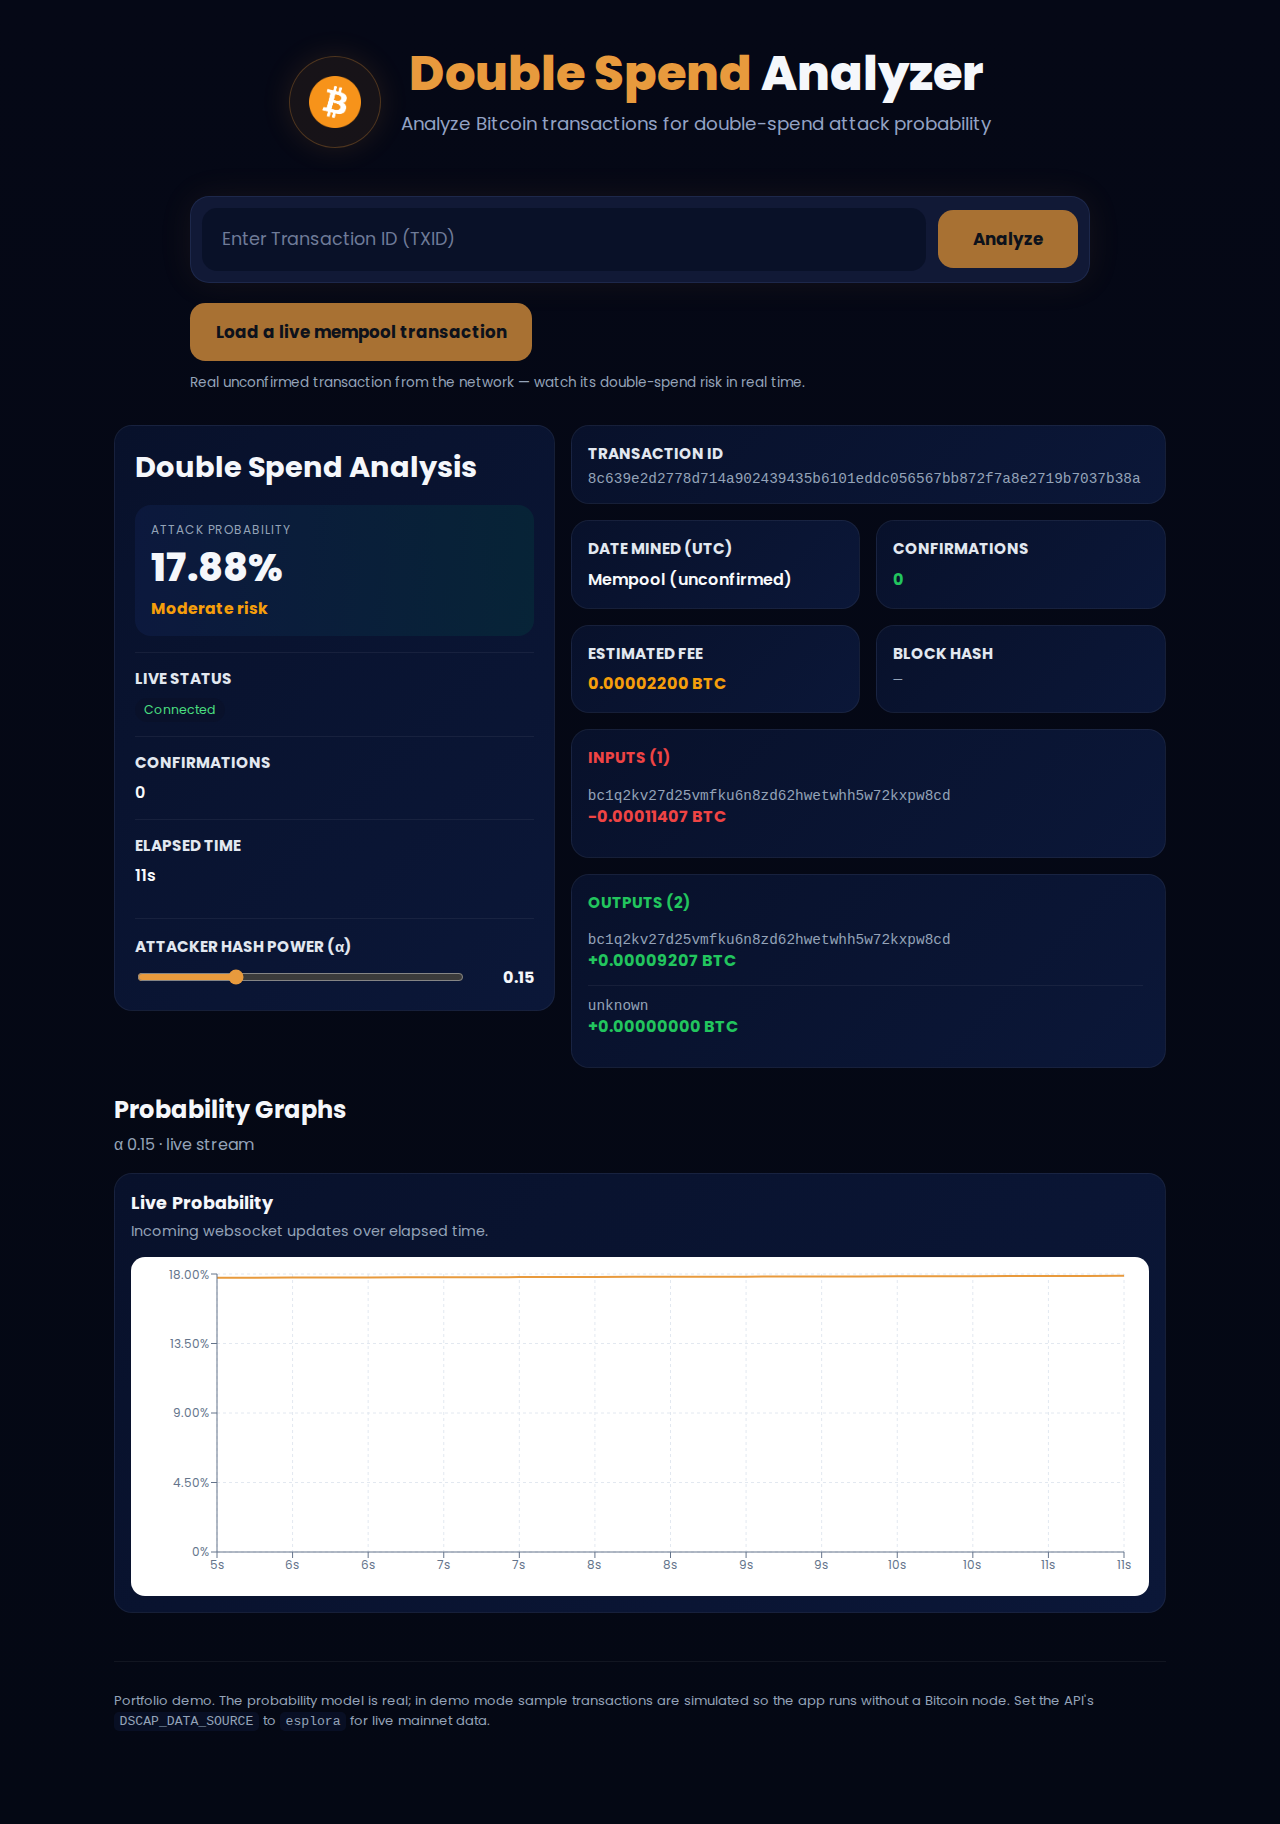
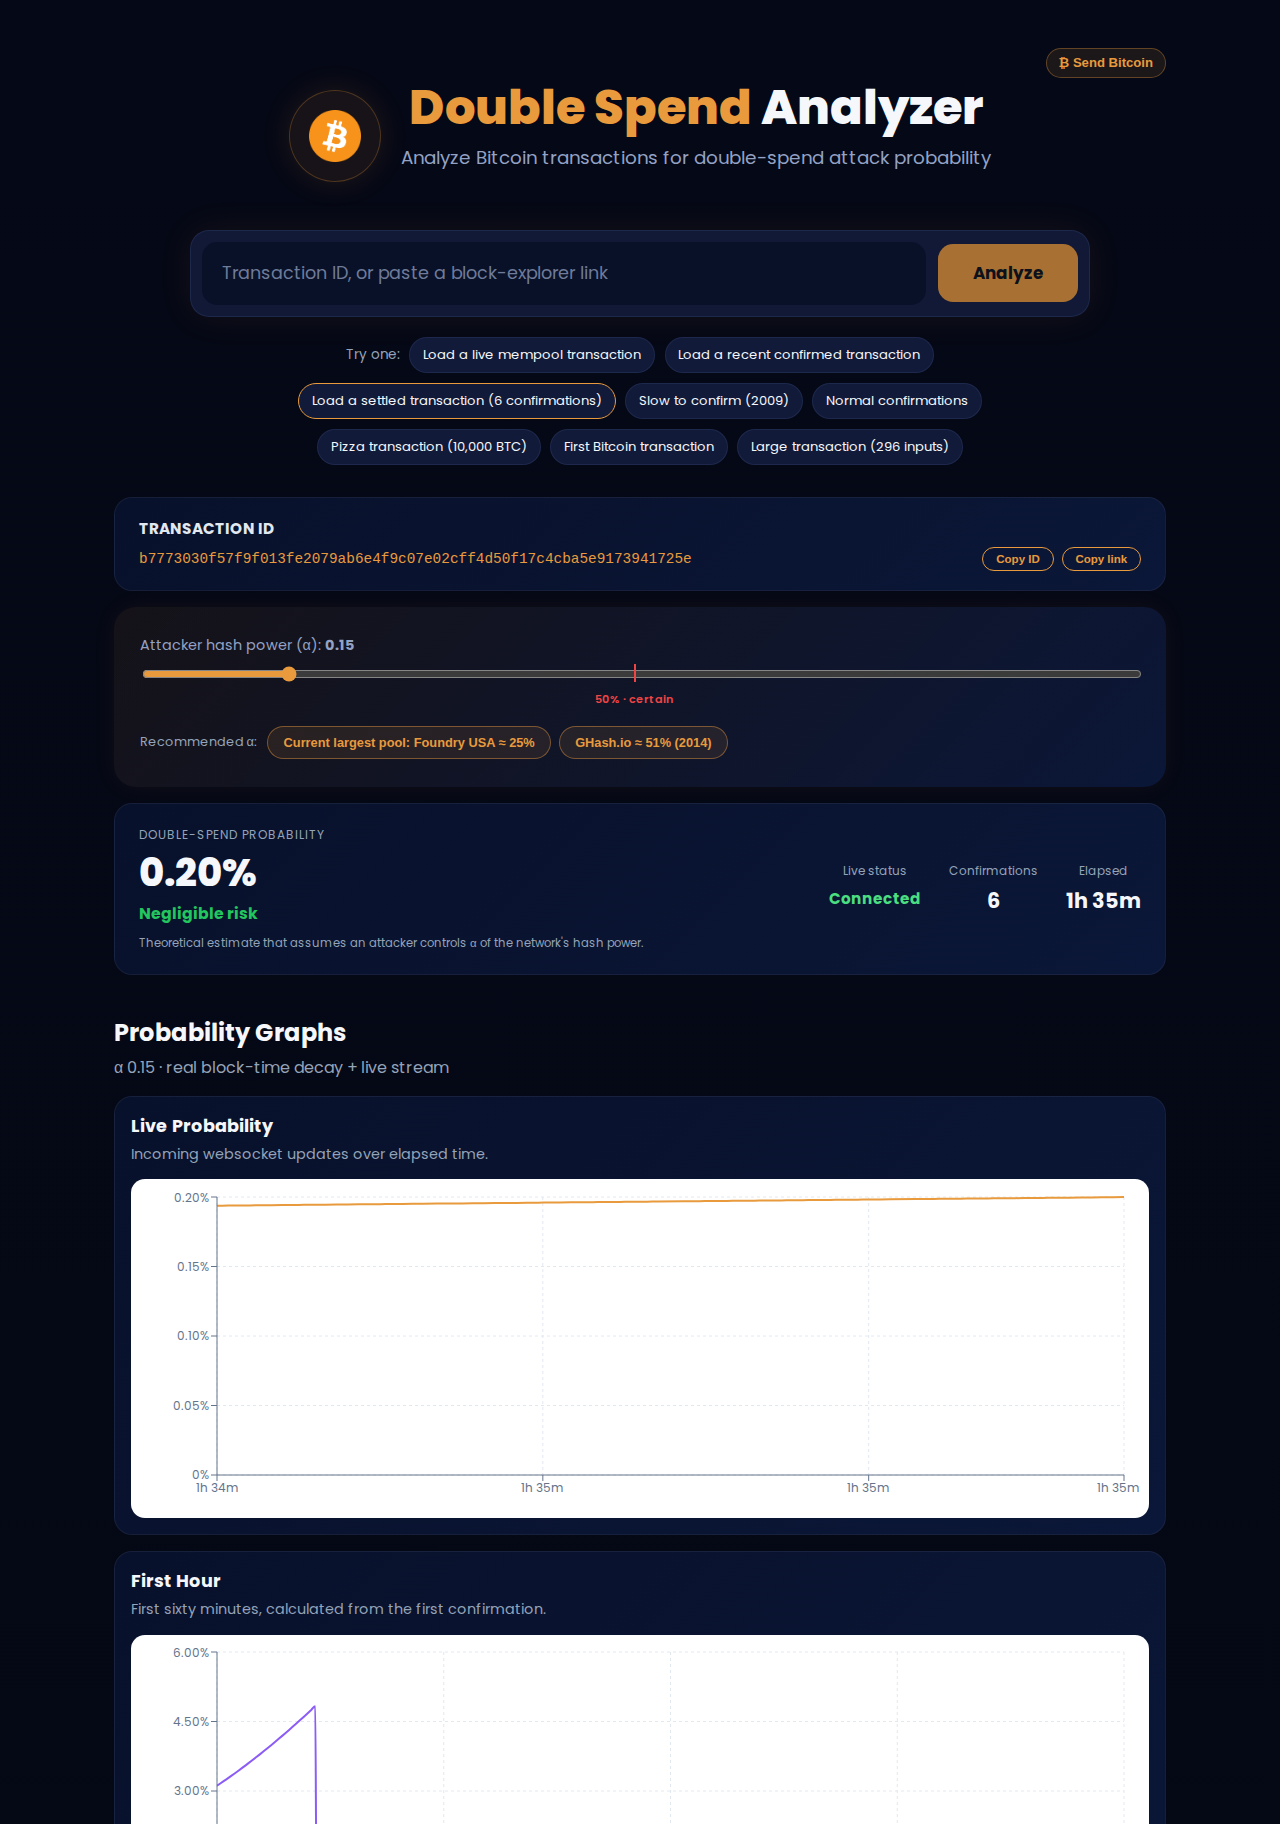
README: refresh screenshot, current alpha semantics, feature list
- New screenshot from the live site: settled transaction loaded, all
  three history graphs, current preset chips and the 50% certain tick.
- Alpha section now matches the code: slider spans 0-1 and >= 50%
  reports a certain 100%, with the catch-up formula below that.
- Feature bullets cover the sample loaders and the First Hour graph.
- Deploy note reflects that the live site runs esplora mode.

diff --git a/README.md b/README.md
@@ -20,17 +20,23 @@ and streams that probability live as time passes and confirmations accumulate.
 - Look up a transaction by id and see its inputs, outputs, and estimated fee.
 - Watch a **live double-spend probability** update over a WebSocket as the
   transaction ages and confirms.
-- Explore modeled probability-decay graphs (first 5 hours, and full history),
+- One-click loaders: a live mempool (unconfirmed) transaction, a just-confirmed
+  one, or a settled one (6 confirmations, the conventional "safe" depth).
+- Explore probability-decay graphs built from the transaction's real
+  confirmation timeline (first hour, first 5 hours, and full history),
   downsampled with the LTTB algorithm so large series stay smooth.
-- Adjust the attacker's assumed hash-power share (α) and see the risk recompute.
+- Adjust the attacker's assumed hash-power share (α) and see the risk
+  recompute, with live presets like the current largest mining pool's share.
 
 ## The model
 
 Given how long a transaction has been visible (`t`), its confirmation count
-(`n`), and an attacker's share of network hash power (`α`, where `0 < α < 0.5`),
-the app computes the probability the attacker could still build a longer chain
-and reverse it. The calculation runs in log-space for numerical stability when
-the probability becomes astronomically small. See
+(`n`), and an attacker's share of network hash power (`α`), the app computes
+the probability the attacker could still build a longer chain and reverse it.
+The catch-up formula applies while the attacker is a minority (`0 < α < 0.5`);
+at `α ≥ 0.5` a majority attacker always out-mines the network eventually, so
+the risk is reported as a certain 100%. The calculation runs in log-space for
+numerical stability when the probability becomes astronomically small. See
 [`backend/app/probability/equations.py`](backend/app/probability/equations.py).
 
 A subtle, correct property the tests pin down: with confirmations held fixed,
@@ -127,4 +133,6 @@ arbitrary transactions by id).
 - **Backend** → any container host (Fly.io, Railway, Render). Set
   `DSCAP_CORS_ORIGINS` to the deployed frontend origin.
 
-Keep `DSCAP_DATA_SOURCE=demo` for a public demo unless you are hosting a node.
+The live site runs `DSCAP_DATA_SOURCE=esplora`: real mainnet data through the
+free mempool.space API, no node required. Use `demo` for a deployment with zero
+external dependencies (e.g. an offline or CI environment).
